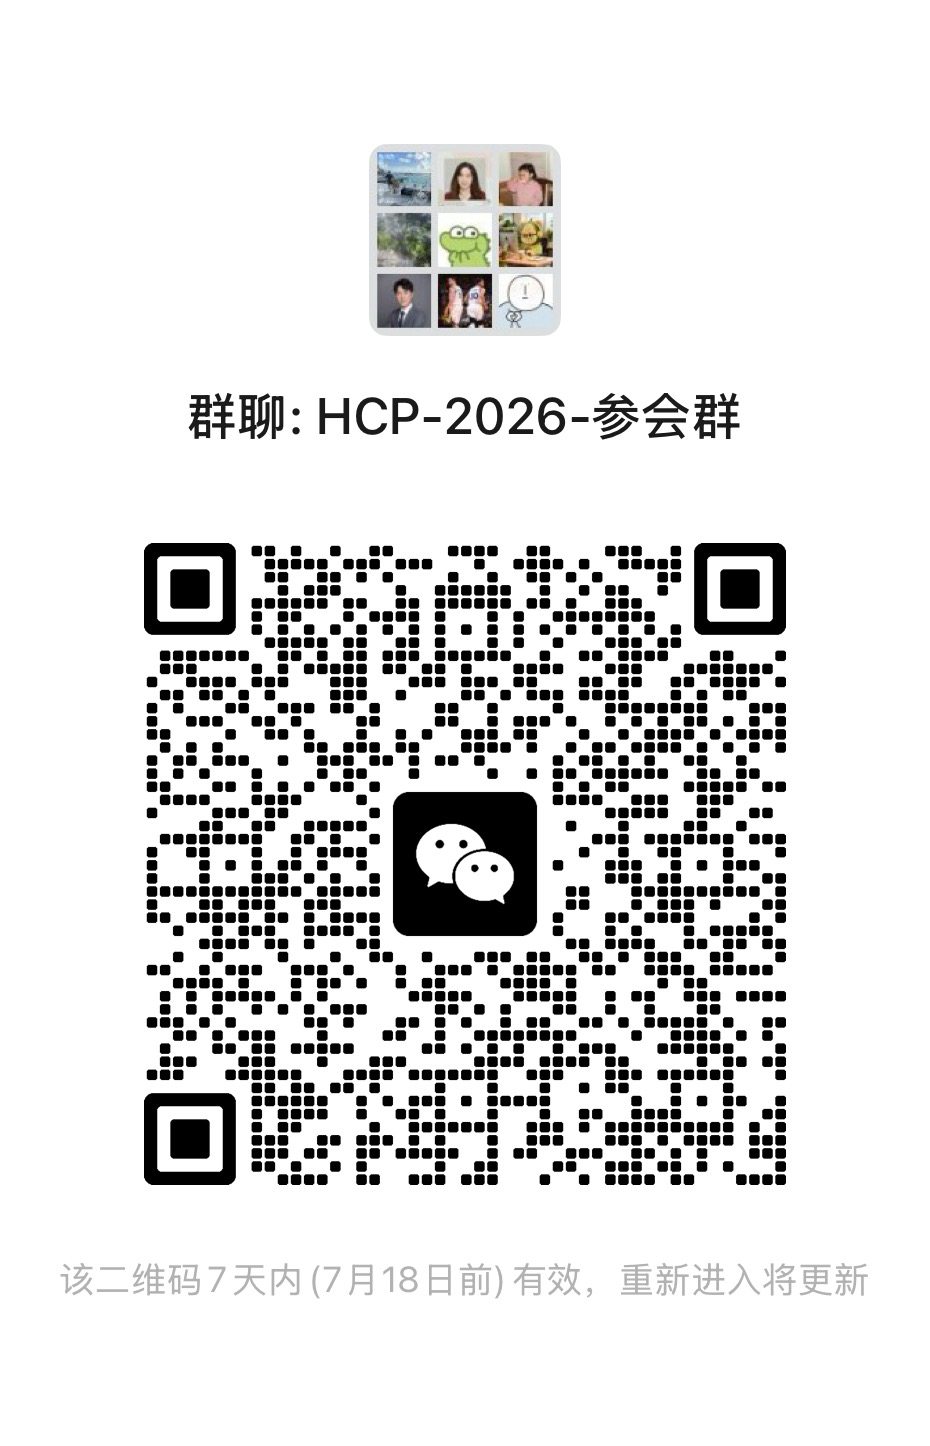
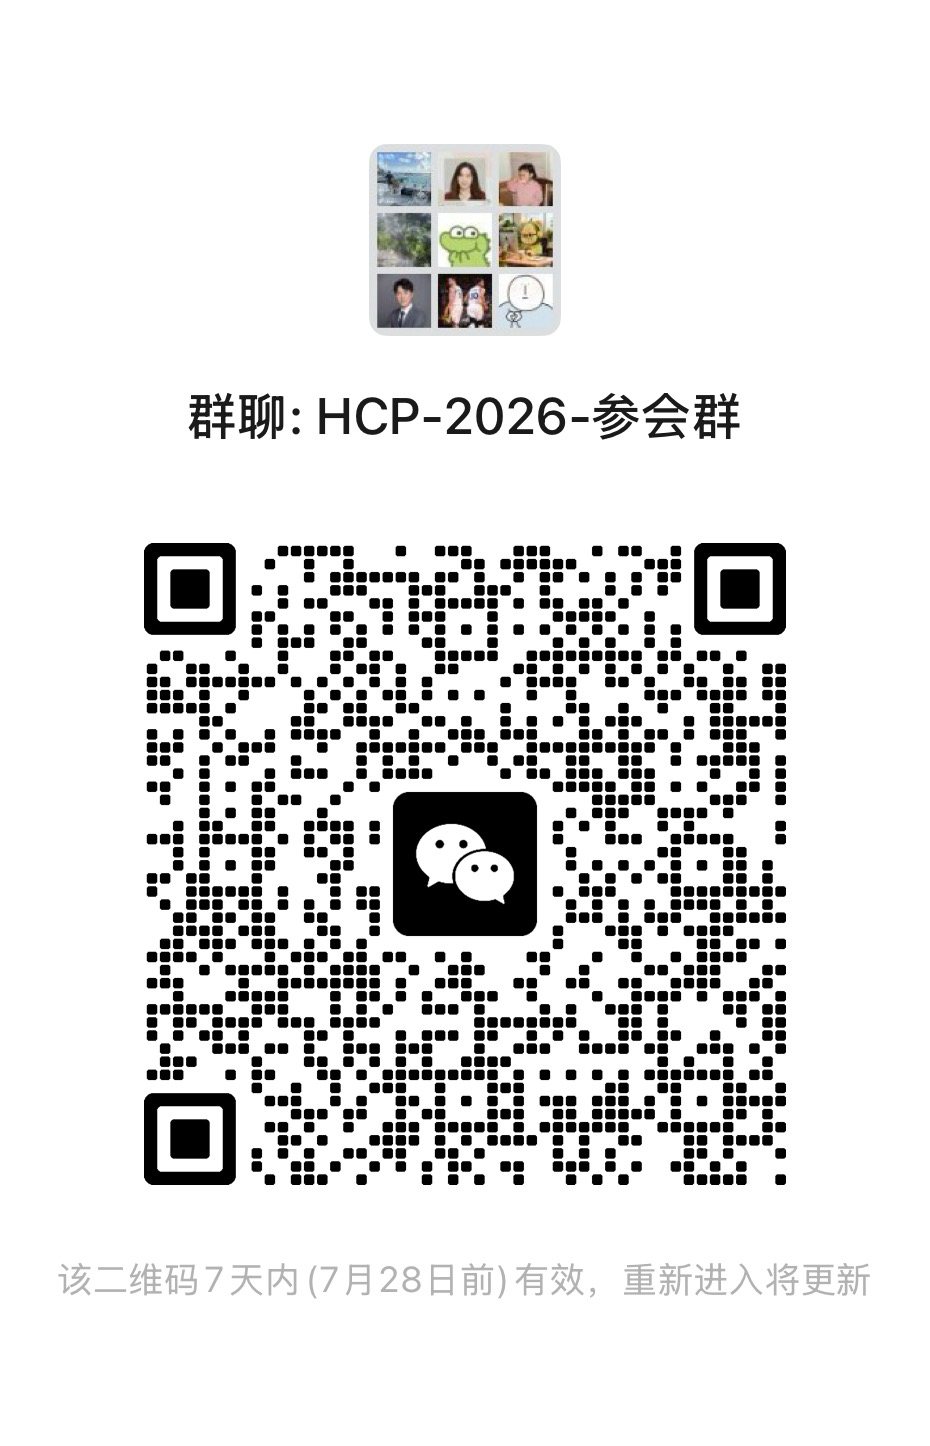
Update WeChat group QR code

diff --git a/index.html b/index.html
@@ -594,7 +594,7 @@
               </div>
               <div class="hotel-booking">
                 <div class="hotel-booking-head">参会微信群</div>
-                <img class="wechat-group-qr" src="assets/wechat-group-qr.png?v=20260718" alt="HCP 2026 参会微信群二维码" />
+                <img class="wechat-group-qr" src="assets/wechat-group-qr.png?v=20260721" alt="HCP 2026 参会微信群二维码" />
               </div>
             </div>
           </div>

diff --git a/en.html b/en.html
@@ -604,7 +604,7 @@
               </div>
               <div class="hotel-booking">
                 <div class="hotel-booking-head">WeChat group</div>
-                <img class="wechat-group-qr" src="assets/wechat-group-qr.png?v=20260718" alt="HCP 2026 WeChat group QR code" />
+                <img class="wechat-group-qr" src="assets/wechat-group-qr.png?v=20260721" alt="HCP 2026 WeChat group QR code" />
               </div>
             </div>
           </div>
